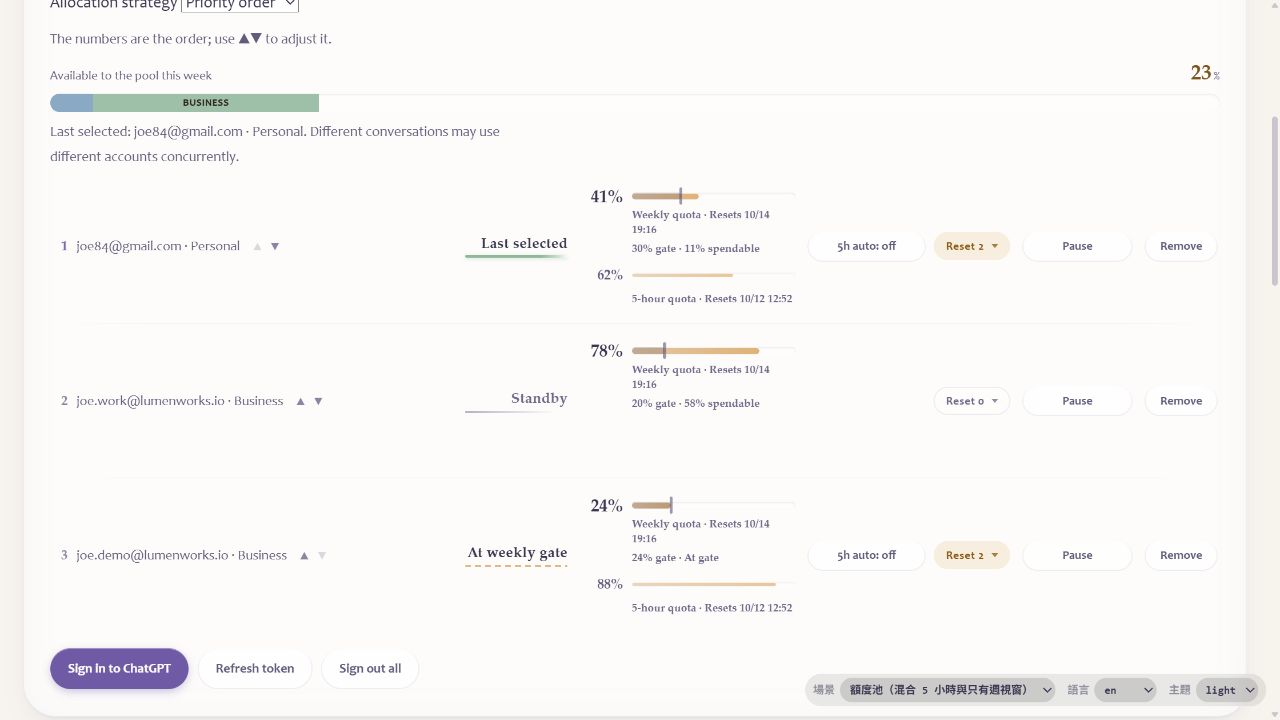
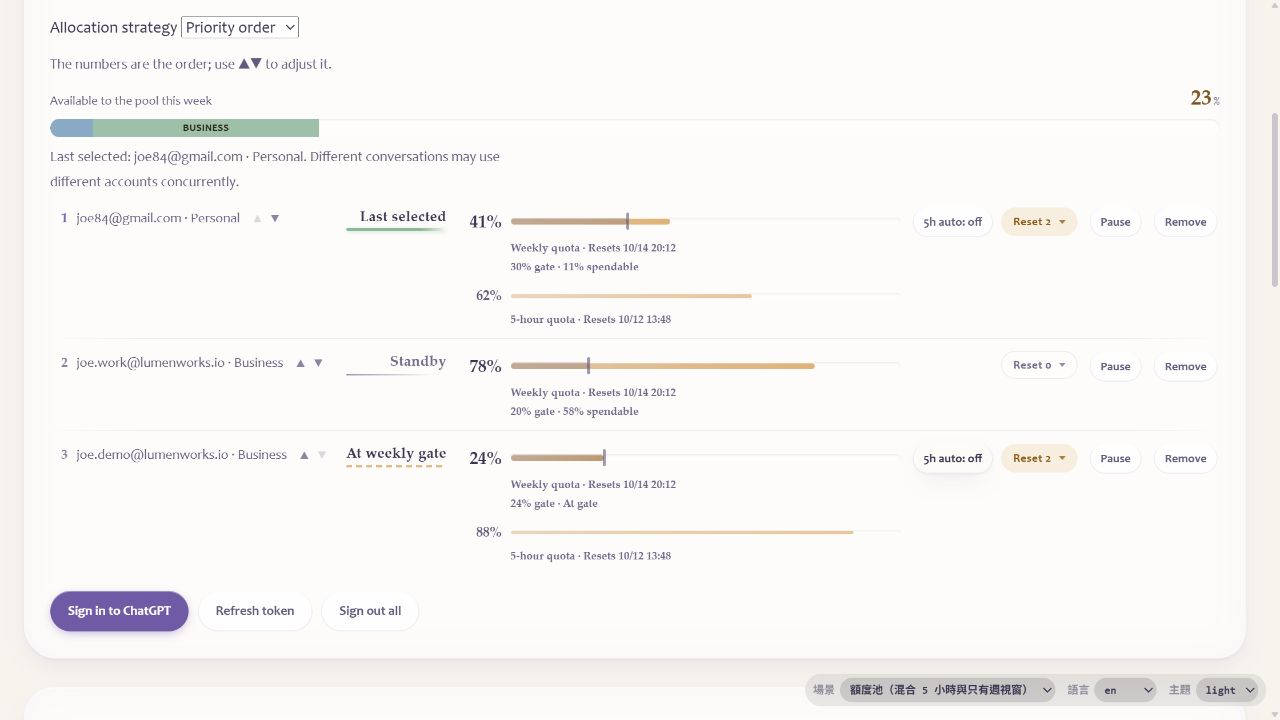
fix: size Official quota columns from translated content

diff --git a/src/styles/components.css b/src/styles/components.css
@@ -2449,10 +2449,37 @@ html[data-performance="low"] .card {
   align-items: center;
   justify-content: end;
 }
-.acct--official {
-  grid-template-columns: 7.6em minmax(13em, 16em) 15em 8.2em 5.4em;
+/* All Official rows share content-sized tracks: label, state, quota,
+   5h auto, Reset, and actions. No translated button receives a fixed width. */
+.rows--official {
+  display: grid;
+  grid-template-columns: minmax(0, max-content) minmax(0, max-content) minmax(0, 1fr) repeat(4, max-content);
+  column-gap: 12px;
 }
-.acct--official .acct__resets { width: 15em; flex: 0 0 15em; }
+.rows--official > .rows__item {
+  display: grid;
+  grid-column: 1 / -1;
+  grid-template-columns: subgrid;
+  align-items: start;
+}
+.rows--official .rows__key { overflow-wrap: anywhere; }
+.rows--official .rows__val {
+  display: grid;
+  grid-column: 2 / -1;
+  grid-template-columns: subgrid;
+}
+.acct--official {
+  grid-column: 1 / -1;
+  grid-template-columns: subgrid;
+  align-items: start;
+}
+.acct--official .acct__resets {
+  grid-column: 3 / span 2;
+  grid-template-columns: subgrid;
+  width: auto;
+}
+.acct--official .acct__resets > :not(:last-child) { justify-self: start; }
+.acct--official .acct__resets > :last-child { justify-self: end; }
 .acct__actions {
   display: contents;
 }
@@ -2474,9 +2501,8 @@ html[data-performance="low"] .card {
   gap: 10px;
   min-width: 0;
 }
-/* Keep the weekly window first in every Official row. The second track
-   maintains vertical alignment without rendering an absent 5h window. */
-.acct__quota--official { grid-template-rows: 4.5rem 3rem; }
+/* Weekly starts at the same row origin; descriptions grow naturally. */
+.acct__quota--official { align-self: start; align-content: start; }
 /* 數字一欄、量條一欄，說明字掛在量條那一欄：讀數的左緣對齊量條的左緣，
    不從百分比底下開始 —— 數字靠右貼著量條，說明字要是從欄位最左邊起頭，
    三樣東西就有兩條不同的左緣。 */
@@ -2650,6 +2676,30 @@ html[data-performance="low"] .card {
   .acct__actions > .acct__quota {
     flex: 1 1 15em;
   }
+}
+
+@media (max-width: 1120px) {
+  .rows--official { grid-template-columns: max-content minmax(0, 1fr) max-content max-content; }
+  .rows--official .rows__val, .rows--official .acct--official,
+  .rows--official .acct__actions { display: contents; }
+  .rows--official .rows__key { grid-column: 1; grid-row: 1; }
+  .rows--official .state { grid-column: 2 / -1; grid-row: 1; justify-self: end; }
+  .rows--official .acct__quota,
+  .rows--official .acct__actions > .pill:first-child { grid-column: 1 / -1; grid-row: 2; }
+  .rows--official .acct__resets { grid-column: 1 / 3; grid-row: 3; }
+  .rows--official .acct__actions > .btn,
+  .rows--official .acct__actions > .pill:not(:first-child) { grid-column: 3; grid-row: 3; }
+  .rows--official .acct__actions > .btn:last-child { grid-column: 4; }
+  .rows--official .resets { grid-column: 1 / -1; }
+}
+@media (max-width: 600px) {
+  .rows--official { grid-template-columns: minmax(0, 1fr) max-content; }
+  .rows--official .acct__rank { flex-wrap: wrap; }
+  .rows--official .state { grid-column: 2; }
+  .rows--official .acct__resets { grid-column: 1 / -1; grid-template-columns: minmax(0, 1fr) max-content; }
+  .rows--official .acct__actions > .btn,
+  .rows--official .acct__actions > .pill:not(:first-child) { grid-column: 1; grid-row: 4; justify-self: start; }
+  .rows--official .acct__actions > .btn:last-child { grid-column: 2; justify-self: end; }
 }
 
 /* ---------- 監看板 ----------

diff --git a/src/screens/Models.tsx b/src/screens/Models.tsx
@@ -1618,7 +1618,7 @@ export function Models({
 
         {oauth?.accounts.length ? (
           normalizedQuotaPool.enabled ? (
-            <Rows>
+            <Rows className="rows--official">
               {pooledAccounts.map((entry) => {
                 const account = entry.account;
                 const accountLabel = codexAccountLabel(account);
@@ -1861,7 +1861,7 @@ export function Models({
               })}
             </Rows>
           ) : (
-          <Rows>
+          <Rows className="rows--official">
             {oauth.accounts.map((account) => {
               const accountLabel = codexAccountLabel(account);
               const credits = resetCredits[account.accountId];

diff --git a/src/components/ui.tsx b/src/components/ui.tsx
@@ -163,8 +163,8 @@ export function Pill({
 
 /* ---------- 狀態列 ---------- */
 
-export function Rows({ children }: { children: ReactNode }) {
-  return <div className="rows">{children}</div>;
+export function Rows({ children, className = "" }: { children: ReactNode; className?: string }) {
+  return <div className={`rows${className ? ` ${className}` : ""}`}>{children}</div>;
 }
 
 export function Row({ label, children }: { label: ReactNode; children: ReactNode }) {
